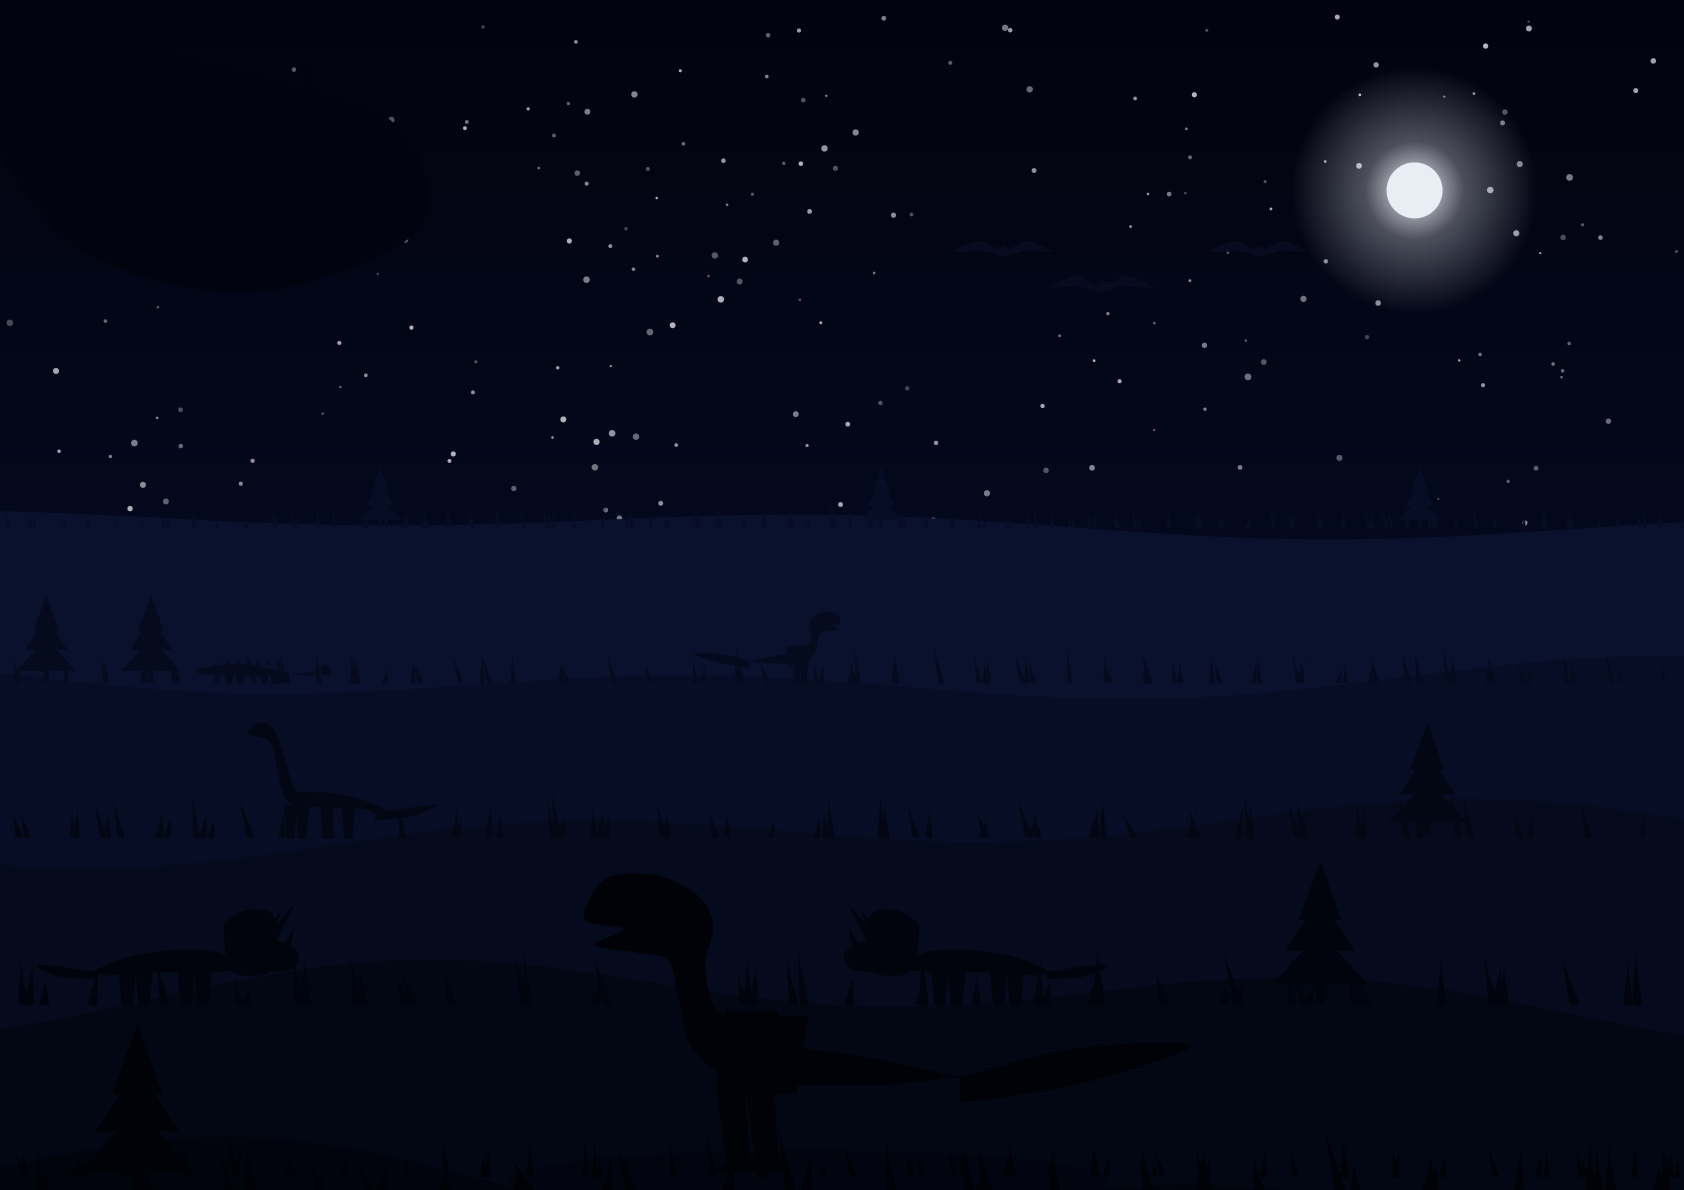
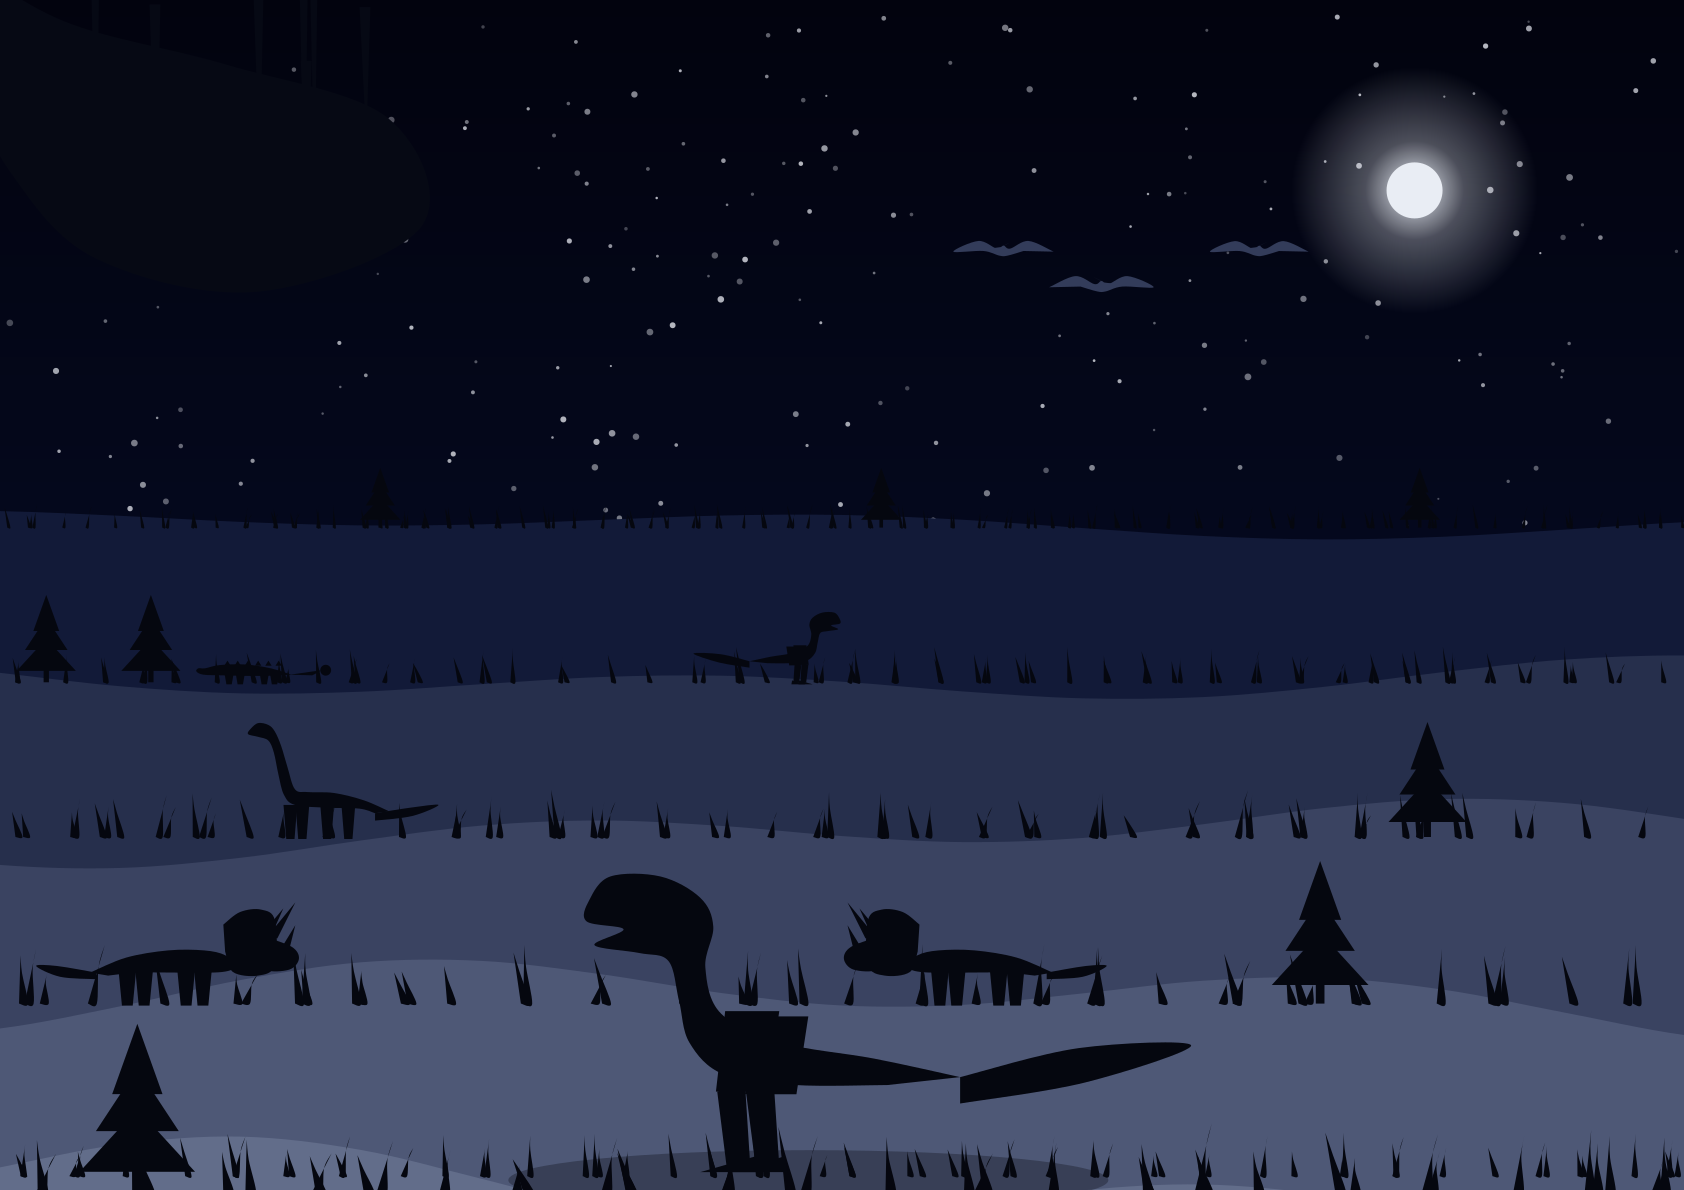
fix(art): moonlit ground for the 3 collapsed savanna night palettes
Vision QA (detect_regions, flat) on all 26 pages found night/deep-night/
aurora-finale collapsed to region_count 2/2/3 — foreground and sky were both
near-black, so every silhouette merged (a viewer sees the same mush). The
widened value ramp cannot help a palette that is uniformly dark.

Fix (mirrors the working saga-night approach): give those moods a light
moonlit ground (lifted `fg`) plus a separate dark `ink` for the silhouettes,
so dark dinosaurs/trees read against the lighter foreground while the sky stays
deep. actor/hero/frame/shadow colours now use `ink` when present.

Re-verified with the same detect_regions pass: 2/2/3 -> 128/122/125 regions
(target was >30). Regenerated the 3 PNGs at 2x.

Claude-Session: https://claude.ai/code/session_01VYAvwhxMCRcpS8PGNv5dNb

diff --git a/static/examples/prehistoric_savanna_silhouettes.py b/static/examples/prehistoric_savanna_silhouettes.py
@@ -341,7 +341,7 @@ P = []
 def pal(name, stops, horizon, fg, **k):
     d = {"name": name, "stops": stops, "horizon": horizon, "fg": fg, "orb": None,
          "stars": 0, "clouds": False, "snow": False, "leaves": None, "aurora": None,
-         "trees": "acacia", "ptero": True}
+         "ink": None, "trees": "acacia", "ptero": True}
     d.update(k)
     P.append(d)
 
@@ -367,9 +367,9 @@ pal("Twilight", [("#141c4a", 0), ("#33306e", .45), ("#6b4f86", .78), ("#b07a86",
 pal("Moonrise", [("#0e1636", 0), ("#22315c", .5), ("#4a5c82", .85), ("#8a97ad", 1)],
     "#8a97ad", "#060a1c", stars=90, orb=("moon", .74, .64, 34, MOON), trees="pine")
 pal("Night", [("#05081c", 0), ("#0c1436", .5), ("#1a2650", 1)],
-    "#1a2650", "#01030c", stars=150, orb=("moon", .68, .24, 30, MOON), trees="mixed")
+    "#1a2650", "#8892ad", ink="#0a0e22", stars=150, orb=("moon", .68, .24, 30, MOON), trees="mixed")
 pal("Deep Night", [("#02030e", 0), ("#050a22", .6), ("#0a1230", 1)],
-    "#0a1230", "#000208", stars=220, orb=("moon", .84, .16, 14, MOON), trees="pine")
+    "#0a1230", "#6c7794", ink="#05070f", stars=220, orb=("moon", .84, .16, 14, MOON), trees="pine")
 pal("Autumn", [("#b8461f", 0), ("#d9772b", .4), ("#e7a23f", .72), ("#f2cf6a", 1)],
     "#f2cf6a", "#2a1206", orb=("sun", .3, .34, 30, "#ffdf8a"), leaves="#e0812b", trees="mixed")
 pal("Winter", [("#8fa9c4", 0), ("#b9cbdc", .5), ("#e8eff6", 1)],
@@ -377,7 +377,7 @@ pal("Winter", [("#8fa9c4", 0), ("#b9cbdc", .5), ("#e8eff6", 1)],
 pal("Storm", [("#2b2733", 0), ("#4a4453", .45), ("#7b6f72", .78), ("#b59a86", 1)],
     "#b59a86", "#0e0c13", clouds=True, trees="mixed")
 pal("Aurora Finale", [("#03060f", 0), ("#071022", .55), ("#0c1a30", 1)],
-    "#0c1a30", "#010309", stars=170, orb=("moon", .8, .2, 18, MOON),
+    "#0c1a30", "#5f6f88", ink="#060b16", stars=170, orb=("moon", .8, .2, 18, MOON),
     aurora=["#3af0a0", "#7bf0c8", "#4a90f0"], trees="pine", ptero=False)
 
 
@@ -394,6 +394,8 @@ def band_color(pl, i):
 
 
 def actor_color(pl, i):
+    if pl.get("ink"):                    # moonlit palettes: constant dark ink so
+        return pl["ink"]                 # silhouettes read against the lighter ground
     return lerp(pl["horizon"], pl["fg"], 0.08 + 0.205 * (i + 1))
 
 
@@ -463,9 +465,9 @@ def scene(pl, idx):
         S += grass(base, -10, W + 10, acol, 5 + i * 3, R(idx * 50 + i))
 
     # hero foreground grouping (echoes the elephant + calf) — grounded with a soft shadow
-    hero_col = pl["fg"]
+    hero_col = pl.get("ink") or pl["fg"]
     hy = 0.985 * H
-    shade = lerp(pl["fg"], "#000000", 0.35)
+    shade = lerp(hero_col, "#000000", 0.35)
     night_like = pl["name"] in ("Sunset", "Storm", "Night", "Deep Night", "Aurora Finale")
     if night_like:
         S.append(disc(0.48 * W, hy + 4, 150, shade, ry=15, opacity=0.30))
@@ -477,7 +479,7 @@ def scene(pl, idx):
     S += grass(hy, -10, W + 10, hero_col, 10, R(idx * 77))
 
     # framing canopy — smaller and slightly lighter than the hero so it frames, not dominates
-    S += frame_tree(right=(idx % 2 == 0), s=54, color=lerp(pl["fg"], pl["horizon"], 0.14))
+    S += frame_tree(right=(idx % 2 == 0), s=54, color=lerp(hero_col, pl["horizon"], 0.14))
 
     if pl["snow"]:
         sr = R(900 + idx)